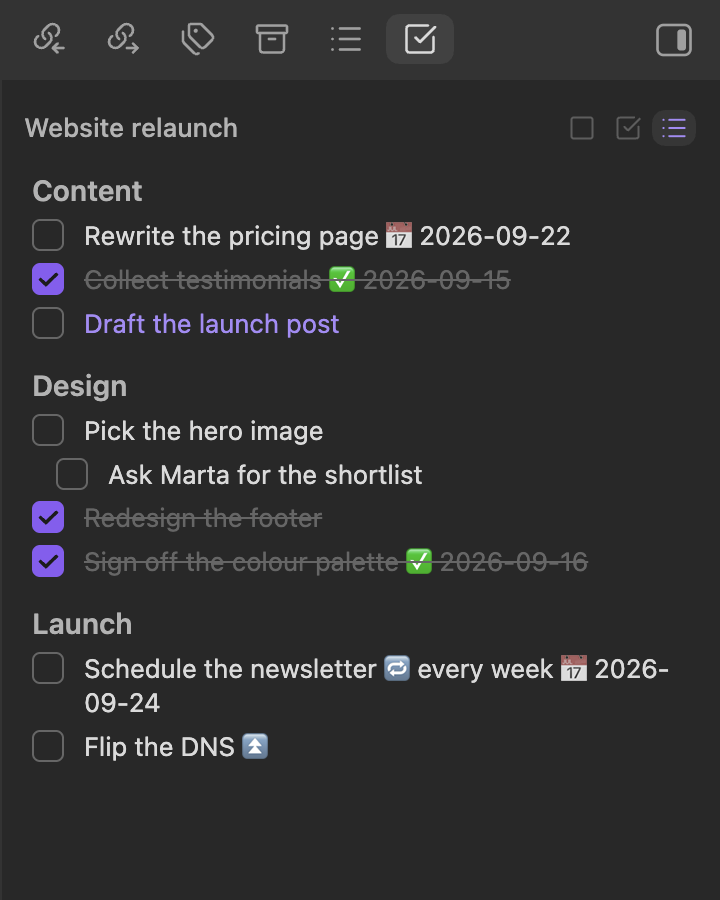
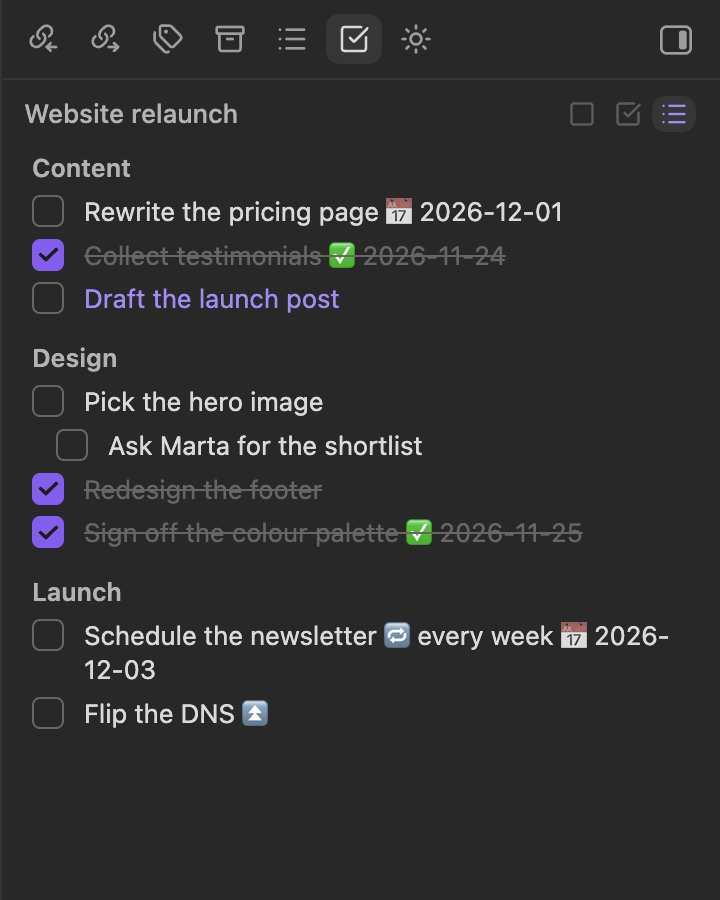
Refresh README screenshots for panels

diff --git a/README.md b/README.md
@@ -30,6 +30,8 @@ A source is a note the panel reads. Press + in a panel's Sources list and pick o
 | Today, This week, This month, This quarter, This year | the periodic note of the current period |
 | Note… | one note you pick from the vault; the source follows the note when you rename or move it |
 
+![A My day panel listing the focused note, today's note and this week's note](docs/images/panels.png)
+
 Sources are read in list order, and a note reached by two sources, such as Focused note and Today while today's note is open, is listed once at the first source's position. With two or more notes in a panel each one gets a header with its name, which opens the note when clicked; "Show a header for each note" turns the headers off for one flat list. A periodic note that does not exist yet, or a picked note that was deleted, shows as a muted header saying so. A panel that resolves to a single note is titled after that note, and otherwise shows its own name.
 
 ### Where periodic notes live
@@ -57,6 +59,8 @@ This example builds a panel that shows the note you are working in next to today
 5. Drag the rows into the order you want the notes to appear in the panel.
 6. Under **Layout**, keep **Show a header for each note** on so each note gets its own header, and turn on **Group tasks under their headings** if your notes use sections.
 7. Close the settings, open the command palette and run **Task Overview: Open My day**. The panel opens in the right sidebar, and its tab shows the icon you picked.
+
+![The My day panel's settings page](docs/images/panel-settings.png)
 
 When the note in focus is today's note, its tasks appear once, under the first source in the list that reaches it. To open the panel faster, bind **Open My day** to a hotkey under Settings → Hotkeys, or add it to the ribbon with Commander.
 
